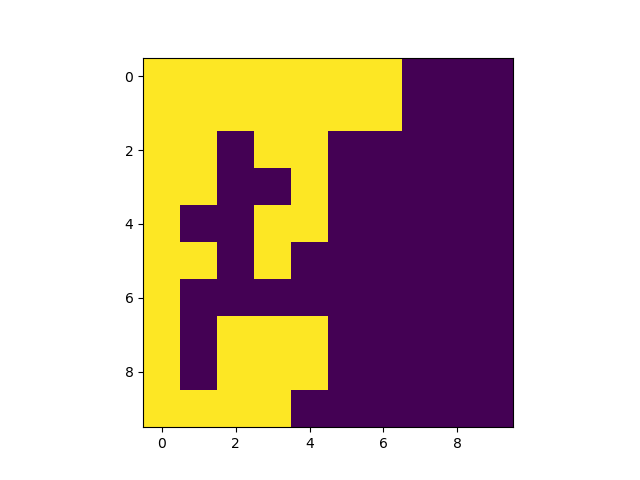
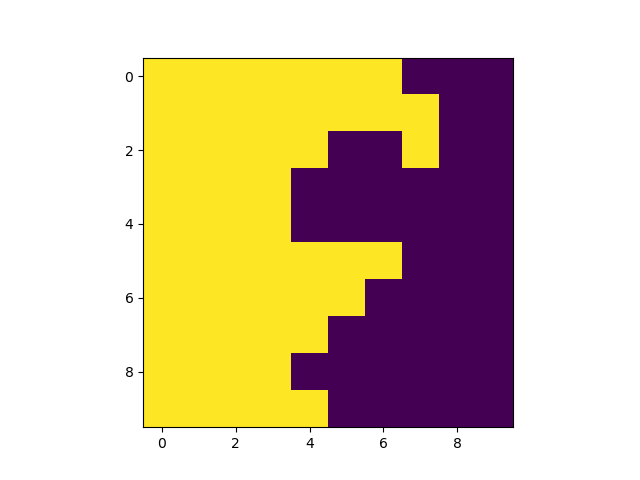
fixed prof autry's bug

Changed region(s): [[0.2812, 0.25, 0.625, 0.8125], [0.4375, 0.7188, 0.5312, 0.9062], [0.625, 0.1875, 0.6875, 0.375]]

diff --git a/HW7_Gerrymandering/hw7.py b/HW7_Gerrymandering/hw7.py
@@ -53,8 +53,10 @@ def updateBorder(old_border, fliprow, flipcol, plan, N):
   new_borderOnes, new_borderZeros = gerry.countBorder(new_border, plan)
   if plan[fliprow, flipcol] == 0:
     new_borderOnes += 1
+    new_borderZeros -= 1
   else:
     new_borderZeros += 1
+    new_borderOnes -= 1
 
   return new_border, new_borderOnes, new_borderZeros
 
@@ -228,8 +230,8 @@ if __name__ == "__main__":
   #     left_asym.png - will favor 1s on the left
   #     compact.png   - will maximize compactness
   #     top_left.png  - compactness with 1s in top-left
-  filename = "compact.png"
-  path = "/home/hirosese/csc395/ComputationalMethodsInIndustry/HW7_Gerrymandering/"
+  filename = "uniform.png"
+  path = "HW7_Gerrymandering/uniform/"
 
   # Useful repeated value.
   halfN = math.floor(N/2)
